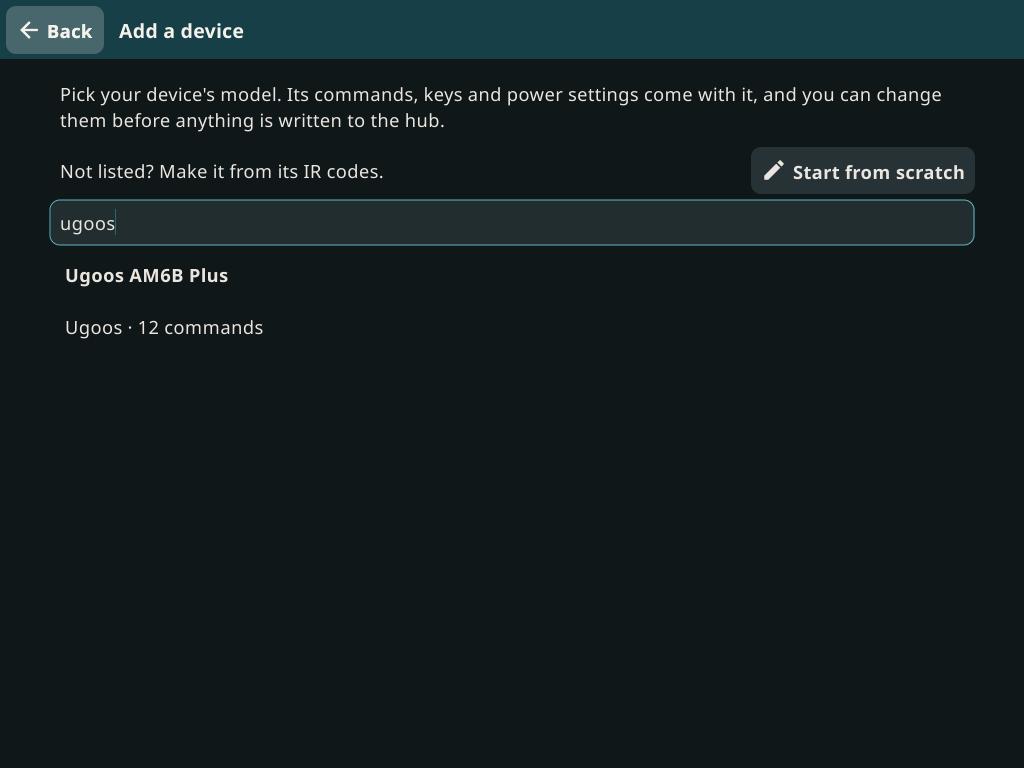
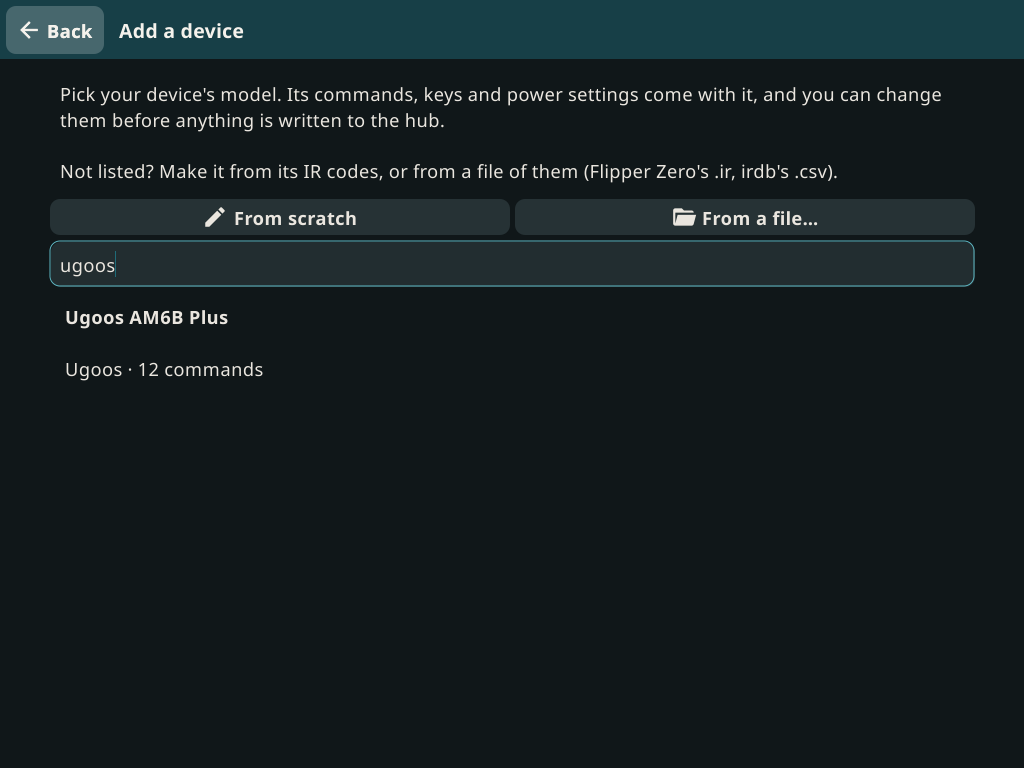
Add a device from a file of its IR codes (#39)
"Add a device" opens Flipper Zero's .ir and irdb's .csv files (the
library's irfile): commands named like the remote's keys go on them,
power commands make the device's power, and codes the X2 cannot send
yet are left out and listed before adding. The library goes to the
commit with irfile and the new IR protocols.

Changed region(s): [[0.0312, 0.1875, 0.9688, 0.375], [0.0625, 0.4688, 0.25, 0.5], [0.0625, 0.4062, 0.25, 0.4375]]

diff --git a/internal/ui/edit.go b/internal/ui/edit.go
@@ -4,6 +4,8 @@ import (
 	"context"
 	"errors"
 	"fmt"
+	"io"
+	"path/filepath"
 	"strings"
 
 	"fyne.io/fyne/v2"
@@ -66,8 +68,11 @@ func (a *App) showAddDevice() {
 	}
 
 	intro := wrapped("Pick your device's model. Its commands, keys and power settings come with it, and you can change them before anything is written to the hub.")
-	scratch := widget.NewButtonWithIcon("Start from scratch", theme.DocumentCreateIcon(), a.showScratch)
-	notListed := container.NewBorder(nil, nil, nil, container.NewCenter(scratch), wrapped("Not listed? Make it from its IR codes."))
+	scratch := widget.NewButtonWithIcon("From scratch", theme.DocumentCreateIcon(), a.showScratch)
+	fromFile := widget.NewButtonWithIcon("From a file…", theme.FolderOpenIcon(), a.importIRFile)
+	notListed := container.NewVBox(
+		wrapped("Not listed? Make it from its IR codes, or from a file of them (Flipper Zero's .ir, irdb's .csv)."),
+		container.NewThemeOverride(container.NewGridWithColumns(2, scratch, fromFile), tightKeys{}))
 	top := container.NewVBox(intro, notListed, search, none)
 	a.screen("Add a device", a.backToBrowse, column(container.NewPadded(container.NewBorder(top, nil, nil, nil, list))))
 }
@@ -104,6 +109,80 @@ func (a *App) confirmTemplate(t workspace.Template) {
 		s := a.showBrowse(a.hub)
 		s.selectDevice(d.Name)
 		s.setStatus(false, fmt.Sprintf("Added %s. Review your changes to write them to the hub.", d.Name))
+	}, a.win)
+	form.Resize(fyne.NewSize(min(a.win.Canvas().Size().Width-32, 480), 0))
+	form.Show()
+}
+
+// importIRFile adds a device made of a file of IR codes the user picks,
+// once they confirm its name, seeing what it has and what was left out.
+func (a *App) importIRFile() {
+	a.pickers.open(a.win, workspace.IRFileExts, func(r io.ReadCloser, file string, err error) {
+		if err != nil {
+			dialog.ShowError(fmt.Errorf("opening failed: %w", err), a.win)
+			return
+		}
+		im, err := workspace.FromIRFile(file, r)
+		_ = r.Close()
+		if err != nil {
+			dialog.ShowError(err, a.win)
+			return
+		}
+		a.confirmImport(file, im)
+	})
+}
+
+// confirmImport asks for the name of a device made of a file of IR
+// codes, saying what it has and what was left out, and adds it.
+func (a *App) confirmImport(file string, im *workspace.Imported) {
+	d := im.Device
+	name := widget.NewEntry()
+	name.SetText(d.Name)
+	name.Validator = func(s string) error {
+		if strings.TrimSpace(s) == "" {
+			return errors.New("the device needs a name")
+		}
+		if o := a.work.Config.Device(s); o != nil {
+			return fmt.Errorf("there is a device named %q already", o.Name)
+		}
+		return nil
+	}
+	about := fmt.Sprintf("%d commands, %d of them on the remote's keys.", len(d.Commands), len(d.Buttons))
+	if d.Power != nil {
+		about += " Power: " + d.Power.On
+		if d.Power.Off != d.Power.On {
+			about += " and " + d.Power.Off
+		}
+		about += "."
+	}
+	items := []*widget.FormItem{widget.NewFormItem("Name", name), widget.NewFormItem("", wrapped(about))}
+	if n := len(im.Skipped); n > 0 {
+		const shown = 5
+		var lines []string
+		for i, s := range im.Skipped {
+			if i == shown {
+				lines = append(lines, fmt.Sprintf("and %d more.", n-shown))
+				break
+			}
+			lines = append(lines, s.Name+": "+s.Why)
+		}
+		left := wrapped(fmt.Sprintf("Left out, as the hub cannot send them yet:\n%s", strings.Join(lines, "\n")))
+		left.TextStyle.Italic = true
+		items = append(items, widget.NewFormItem("", left))
+	}
+	items = append(items, widget.NewFormItem("", wrapped("Untested codes: check each one with Test once the device is on the hub.")))
+	form := dialog.NewForm("Add from "+filepath.Base(file), "Add", "Cancel", items, func(ok bool) {
+		if !ok {
+			return
+		}
+		d.Name = strings.TrimSpace(name.Text)
+		if err := a.work.AddDevice(d); err != nil {
+			dialog.ShowError(err, a.win)
+			return
+		}
+		s := a.showBrowse(a.hub)
+		s.selectDevice(d.Name)
+		s.setStatus(false, fmt.Sprintf("Added %s. Review your changes to write them to the hub, then test its commands.", d.Name))
 	}, a.win)
 	form.Resize(fyne.NewSize(min(a.win.Canvas().Size().Width-32, 480), 0))
 	form.Show()

diff --git a/internal/ui/files_test.go b/internal/ui/files_test.go
@@ -26,7 +26,7 @@ func (*memFile) Close() error { return nil }
 // filePickers make u save to and open f, recording the name offered.
 func filePickers(u *App, f *memFile, offered *string) {
 	u.pickers = pickers{
-		open: func(_ fyne.Window, done func(io.ReadCloser, string, error)) {
+		open: func(_ fyne.Window, _ []string, done func(io.ReadCloser, string, error)) {
 			done(io.NopCloser(bytes.NewReader(f.Bytes())), *offered, nil)
 		},
 		save: func(_ fyne.Window, name string, done func(io.WriteCloser, error)) {
@@ -191,5 +191,53 @@ func TestBackup(t *testing.T) {
 	test.Tap(button(t, w, "Apply to the hub"))
 	if got := texts(w); !strings.Contains(got, "Your changes are on the hub.") || !listed(u, "Play PC") || u.work.Changed() {
 		t.Fatalf("after restoring:\n%s", got)
+	}
+}
+
+// A device is added from a Flipper file of its codes: its keys set, what
+// the hub cannot send left out, and said.
+func TestImportIRFile(t *testing.T) {
+	u, w := newApp(t, backend.Hub{Name: "Lounge", Model: "X2", Firmware: 9, Addr: lounge})
+	var f memFile
+	name := "Living_Room_TV.ir"
+	filePickers(u, &f, &name)
+	f.WriteString(`Filetype: IR signals file
+Version: 1
+#
+name: Power
+type: parsed
+protocol: NEC
+address: 04 00 00 00
+command: 08 00 00 00
+#
+name: Vol_up
+type: parsed
+protocol: NEC
+address: 04 00 00 00
+command: 02 00 00 00
+#
+name: Netflix
+type: raw
+frequency: 38000
+duty_cycle: 0.330000
+data: 9000 4500
+`)
+	test.Tap(button(t, w, "Lounge (X2, 192.168.1.20)"))
+	pickRow(t, u, "Add a device…")
+	test.Tap(button(t, w, "From a file…"))
+	got := texts(w)
+	for _, want := range []string{"2 commands, 2 of them on the remote's keys. Power: Power.", "Netflix: raw timings"} {
+		if !strings.Contains(got, want) {
+			t.Errorf("missing %q in:\n%s", want, got)
+		}
+	}
+	assertScreens(t, w, "import-ir")
+	test.Tap(button(t, w, "Add"))
+	d := u.work.Config.Device("Living Room TV")
+	if d == nil || d.Buttons["Vol+"].Short != "Volume Up" {
+		t.Fatalf("added %+v", d)
+	}
+	if !strings.Contains(texts(w), "Added Living Room TV.") {
+		t.Errorf("after adding:\n%s", texts(w))
 	}
 }

diff --git a/internal/workspace/irfile.go b/internal/workspace/irfile.go
@@ -1,0 +1,64 @@
+package workspace
+
+import (
+	"fmt"
+	"io"
+	"path/filepath"
+	"strings"
+
+	"github.com/brunoga/sofabaton/irfile"
+	"github.com/brunoga/sofabaton/profile"
+)
+
+// IRFileExts are the extensions of the files of IR codes FromIRFile reads.
+var IRFileExts = []string{".ir", ".csv"}
+
+// Imported is a device made of a file of IR codes, with the codes left
+// out of it.
+type Imported struct {
+	Device  *profile.Device
+	Skipped []irfile.Skipped
+}
+
+// FromIRFile makes a device of a file of IR codes named file: Flipper
+// Zero's .ir or irdb's .csv. Its commands named like a key of the remote
+// are set on that key, and its power commands make its power; codes the
+// X2 cannot send yet are left out, and listed.
+func FromIRFile(file string, r io.Reader) (*Imported, error) {
+	sigs, err := irfile.Read(file, r)
+	if err != nil {
+		return nil, err
+	}
+	name := strings.Join(strings.Fields(strings.ReplaceAll(strings.TrimSuffix(filepath.Base(file), filepath.Ext(file)), "_", " ")), " ")
+	d, skipped := irfile.Device(name, sigs)
+	if len(d.Commands) == 0 {
+		why := "it has no codes"
+		if len(skipped) > 0 {
+			why = "none of its codes can be sent by the hub yet (" + skipped[0].Why + ")"
+		}
+		return nil, fmt.Errorf("%s cannot be added: %s", filepath.Base(file), why)
+	}
+	d.Buttons = profile.Buttons{}
+	has := map[string]bool{}
+	for _, c := range d.Commands {
+		has[c.Name] = true
+		if key, ok := KeyFor(c.Name); ok {
+			if _, taken := d.Buttons[key]; !taken {
+				d.Buttons[key] = profile.Key{Short: c.Name}
+			}
+		}
+	}
+	if len(d.Buttons) == 0 {
+		d.Buttons = nil
+	}
+	switch {
+	case has["Power On"] && has["Power Off"]:
+		d.Power = &profile.Power{On: "Power On", Off: "Power Off"}
+	case has["Power"]:
+		d.Power = &profile.Power{On: "Power", Off: "Power"}
+	}
+	if err := d.Validate(); err != nil {
+		return nil, fmt.Errorf("%s: the device is not valid: %w", filepath.Base(file), err)
+	}
+	return &Imported{Device: d, Skipped: skipped}, nil
+}

diff --git a/internal/ui/files.go b/internal/ui/files.go
@@ -25,14 +25,15 @@ type openedFile struct {
 }
 
 // pickers are the system's file pickers; tests replace them. Each calls
-// back on the UI thread, or not at all when the user cancels.
+// back on the UI thread, or not at all when the user cancels. open shows
+// files of the extensions given (all of them on phones).
 type pickers struct {
-	open func(win fyne.Window, done func(r io.ReadCloser, name string, err error))
+	open func(win fyne.Window, exts []string, done func(r io.ReadCloser, name string, err error))
 	save func(win fyne.Window, name string, done func(w io.WriteCloser, err error))
 }
 
 var systemPickers = pickers{
-	open: func(win fyne.Window, done func(io.ReadCloser, string, error)) {
+	open: func(win fyne.Window, exts []string, done func(io.ReadCloser, string, error)) {
 		d := dialog.NewFileOpen(func(r fyne.URIReadCloser, err error) {
 			switch {
 			case err != nil:
@@ -44,7 +45,7 @@ var systemPickers = pickers{
 		// Phones' pickers know files by type, and have no type for
 		// these: they show every file there.
 		if !fyne.CurrentDevice().IsMobile() {
-			d.SetFilter(storage.NewExtensionFileFilter([]string{workspace.Ext, ".json"}))
+			d.SetFilter(storage.NewExtensionFileFilter(exts))
 		}
 		d.Show()
 	},
@@ -104,7 +105,7 @@ func (a *App) saveToFile() {
 // openFile opens a workspace file, or a hub's dump, the user picks, and
 // shows it without a hub.
 func (a *App) openFile() {
-	a.pickers.open(a.win, func(r io.ReadCloser, name string, err error) {
+	a.pickers.open(a.win, []string{workspace.Ext, ".json"}, func(r io.ReadCloser, name string, err error) {
 		if err != nil {
 			dialog.ShowError(fmt.Errorf("opening failed: %w", err), a.win)
 			return

diff --git a/internal/workspace/irfile_test.go b/internal/workspace/irfile_test.go
@@ -1,0 +1,62 @@
+package workspace
+
+import (
+	"strings"
+	"testing"
+)
+
+// A made-up Flipper file: its keys go on the remote's, its power on the
+// device's power; the raw signal is left out.
+func TestFromIRFile(t *testing.T) {
+	const file = `Filetype: IR signals file
+Version: 1
+#
+name: Power
+type: parsed
+protocol: NEC
+address: 04 00 00 00
+command: 08 00 00 00
+#
+name: Vol_up
+type: parsed
+protocol: NEC
+address: 04 00 00 00
+command: 02 00 00 00
+#
+name: Ok
+type: parsed
+protocol: NEC
+address: 04 00 00 00
+command: 44 00 00 00
+#
+name: Netflix
+type: raw
+frequency: 38000
+duty_cycle: 0.330000
+data: 9000 4500
+`
+	im, err := FromIRFile("Living_Room_TV.ir", strings.NewReader(file))
+	if err != nil {
+		t.Fatal(err)
+	}
+	d := im.Device
+	if d.Name != "Living Room TV" || len(d.Commands) != 3 {
+		t.Fatalf("%s: %+v", d.Name, d.Commands)
+	}
+	for key, cmd := range map[string]string{"Power": "Power", "Vol+": "Volume Up", "OK": "OK"} {
+		if d.Buttons[key].Short != cmd {
+			t.Errorf("%s runs %q", key, d.Buttons[key].Short)
+		}
+	}
+	if d.Power == nil || d.Power.On != "Power" || d.Power.Off != "Power" {
+		t.Errorf("power %+v", d.Power)
+	}
+	if len(im.Skipped) != 1 || im.Skipped[0].Name != "Netflix" {
+		t.Errorf("skipped %+v", im.Skipped)
+	}
+
+	raw := "Filetype: IR signals file\nVersion: 1\nname: Power\ntype: raw\nfrequency: 38000\ndata: 1 2\n"
+	if _, err := FromIRFile("x.ir", strings.NewReader(raw)); err == nil || !strings.Contains(err.Error(), "raw timings") {
+		t.Errorf("a file of raw codes: %v", err)
+	}
+}

diff --git a/internal/ui/ui_test.go b/internal/ui/ui_test.go
@@ -533,7 +533,7 @@ func TestScratchDevice(t *testing.T) {
 	u, w := newApp(t, backend.Hub{Name: "Lounge", Model: "X2", Firmware: 9, Addr: lounge})
 	test.Tap(button(t, w, "Lounge (X2, 192.168.1.20)"))
 	pickRow(t, u, "Add a device…")
-	test.Tap(button(t, w, "Start from scratch"))
+	test.Tap(button(t, w, "From scratch"))
 	if got := texts(w); !strings.Contains(got, "How does the device's remote send its codes?") {
 		t.Fatalf("not the scratch screen:\n%s", got)
 	}

diff --git a/PLAN.md b/PLAN.md
@@ -379,6 +379,12 @@ drag-reorder lists.
       then (Fyne only tells a long press once let go); letting go then
       sends nothing more. Keys, macros and favorites that work say
       nothing, as on the remote: only failures show at the bottom.
+- [x] A device from a file of its IR codes: "Add a device" opens
+      Flipper Zero's .ir or irdb's .csv (the library's irfile). Its
+      commands named like the remote's keys go on them, its power
+      commands make its power; codes the X2 cannot send yet (raw
+      timings, RC5, Kaseikyo…) are left out and listed. Next: searching
+      irdb and Flipper-IRDB from the app, once their maintainers agree.
 - [ ] Later: the profile library server (section 10).
 
 ## 10. The profile library server (later; not built yet)
